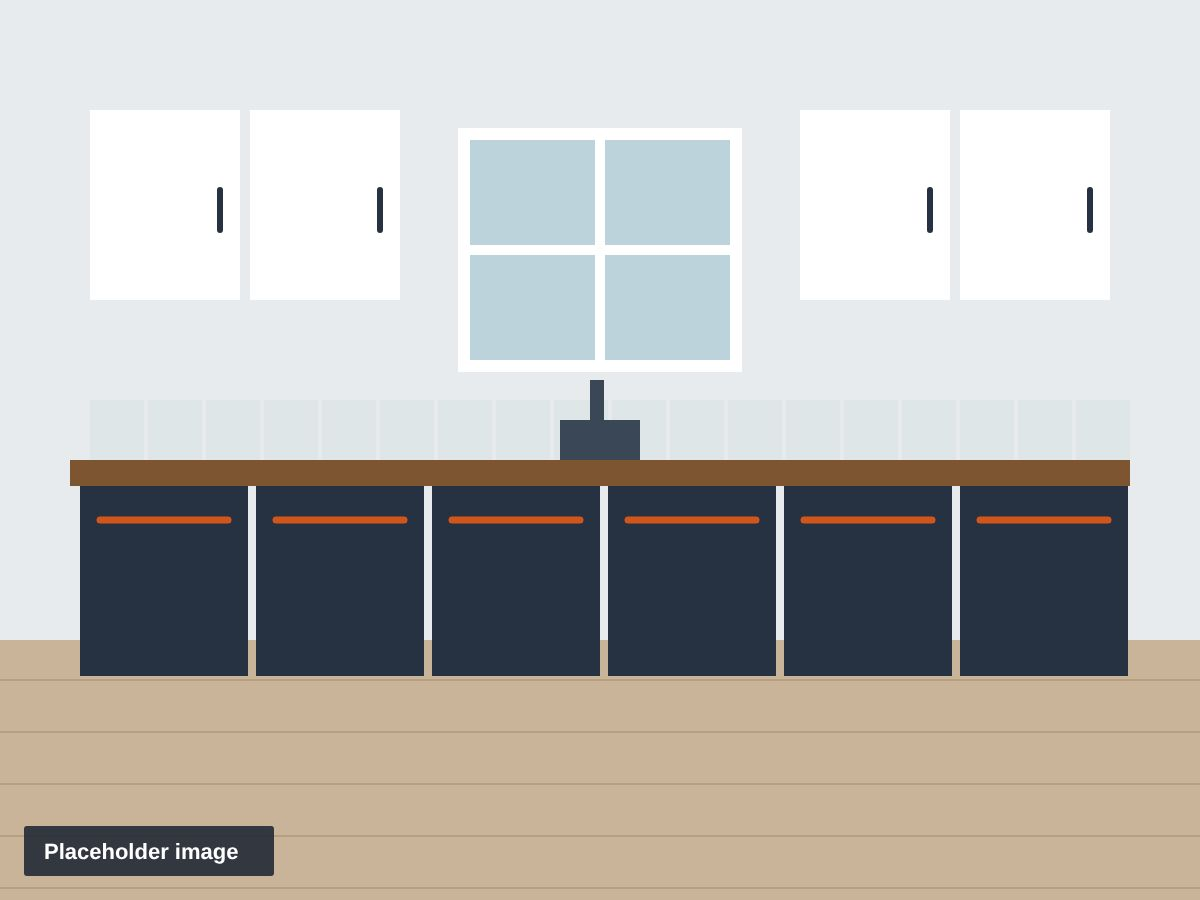
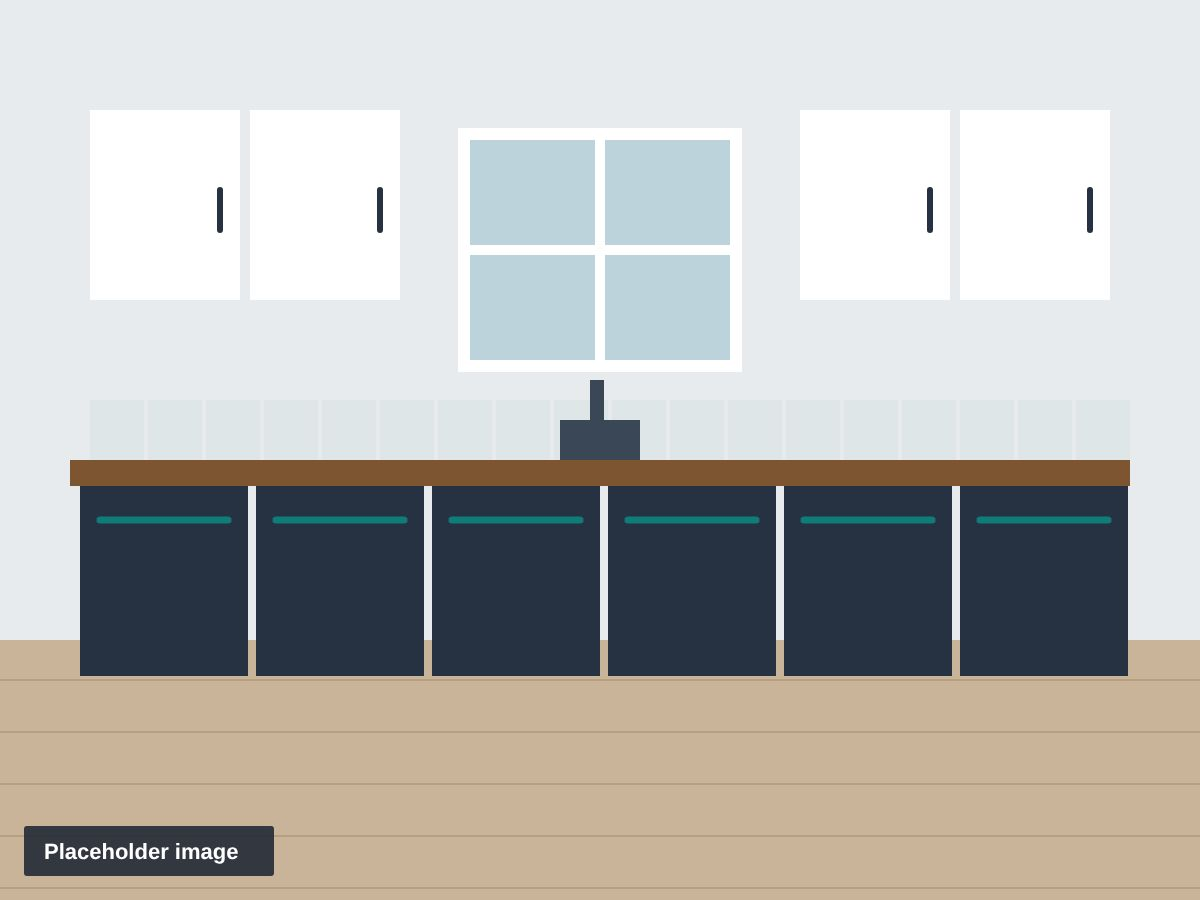
Change the accent colour from orange to teal
Buttons, the jobs strip, card edges, underlines and the logo mark now
use teal alongside the navy, with a light teal for highlights on dark
backgrounds. Placeholder images are redrawn to match.

Claude-Session: https://claude.ai/code/session_017Um8dBkX5FNQPcYcxfdK4v

diff --git a/css/style.css b/css/style.css
@@ -4,9 +4,9 @@
   --bg: #faf8f5;
   --card: #ffffff;
   --line: #e6e1d9;
-  --accent: #c2611f;
-  --accent-dark: #9e4d16;
-  --accent-soft: #fbeee4;
+  --accent: #0f7c7a;
+  --accent-dark: #0b5f5d;
+  --accent-soft: #e1f2f1;
   --dark: #23272d;
   --ok: #2f7d4a;
   --error: #b42318;
@@ -73,7 +73,7 @@ header {
 .hero h1 { font-size: clamp(2rem, 5vw, 3.2rem); line-height: 1.15; margin: 0 0 16px; max-width: 16ch; text-wrap: balance; }
 .hero p { font-size: 1.15rem; color: #d5d8dc; max-width: 52ch; margin: 0 0 32px; }
 .hero .actions { display: flex; gap: 12px; flex-wrap: wrap; }
-.hero .eyebrow { color: #f4a06e; font-size: .8rem; margin: 0 0 8px; }
+.hero .eyebrow { color: #7fd3cd; font-size: .8rem; margin: 0 0 8px; }
 .hero.small { padding: 64px 0 56px; }
 .hero.small h1 { max-width: 24ch; }
 .hero.small p { margin-bottom: 0; }
@@ -237,7 +237,7 @@ h2 { font-size: clamp(1.6rem, 3.5vw, 2.2rem); margin: 0 0 16px; line-height: 1.2
 .find-us { background: var(--dark); color: #fff; border-radius: 14px; padding: 32px 28px; }
 .find-us h2 { color: #fff; font-size: 1.3rem; display: flex; align-items: center; gap: 10px; margin: 0 0 14px; }
 .find-us h2 svg { color: var(--accent); width: 24px; height: 24px; }
-.find-us h3 { font-size: .8rem; text-transform: uppercase; letter-spacing: .1em; color: #f4a06e; margin: 24px 0 4px; }
+.find-us h3 { font-size: .8rem; text-transform: uppercase; letter-spacing: .1em; color: #7fd3cd; margin: 24px 0 4px; }
 .find-us address, .find-us p { font-style: normal; color: #c9cdd2; margin: 0; line-height: 1.7; }
 .find-us address strong { color: #fff; }
 form.quote { display: grid; gap: 18px 20px; grid-template-columns: 1fr 1fr; }
@@ -376,9 +376,9 @@ header { transition: box-shadow .2s; }
   --bg: #f5f6f7;
   --card: #ffffff;
   --line: #e1e5ea;
-  --accent: #d1561b;
-  --accent-dark: #a9440f;
-  --accent-soft: #fdebe0;
+  --accent: #0f7c7a;
+  --accent-dark: #0b5f5d;
+  --accent-soft: #e1f2f1;
   --dark: #1c2633;
   --dark-2: #263241;
   --display: "Zilla Slab", Rockwell, "Roboto Slab", Georgia, serif;
@@ -420,7 +420,7 @@ header { background: var(--dark); border-bottom: 4px solid var(--accent); backdr
 .hero { position: relative; overflow: hidden; isolation: isolate; background: var(--dark); }
 .hero h1 { letter-spacing: 0; }
 .hero.small { padding: 56px 0 60px; }
-.crumbs { display: flex; gap: 10px; align-items: center; color: #f4a06e; font-size: .9rem; font-weight: 700; letter-spacing: .1em; text-transform: uppercase; margin: 0 0 12px !important; }
+.crumbs { display: flex; gap: 10px; align-items: center; color: #7fd3cd; font-size: .9rem; font-weight: 700; letter-spacing: .1em; text-transform: uppercase; margin: 0 0 12px !important; }
 .crumbs a { color: #c3cbd5; text-decoration: none; }
 .crumbs a:hover { color: #fff; text-decoration: underline; }
 .crumbs span { color: #8793a1; }
@@ -429,9 +429,9 @@ header { background: var(--dark); border-bottom: 4px solid var(--accent); backdr
 .hero-bg { position: absolute; inset: 0; z-index: -1; }
 .hero-bg img { width: 100%; height: 100%; object-fit: cover; opacity: .3; }
 .hero-inner { display: grid; grid-template-columns: minmax(0, 1.6fr) minmax(0, 1fr); gap: 48px; align-items: center; padding-block: 88px 80px; }
-.hero-tag { margin: 0 0 14px !important; font-size: .9rem !important; font-weight: 700; letter-spacing: .14em; text-transform: uppercase; color: #f4a06e !important; }
+.hero-tag { margin: 0 0 14px !important; font-size: .9rem !important; font-weight: 700; letter-spacing: .14em; text-transform: uppercase; color: #7fd3cd !important; }
 .home-hero h1 { font-size: clamp(2.4rem, 5.6vw, 4rem); line-height: 1.08; max-width: 14ch; margin-bottom: 20px; }
-.home-hero h1 em { font-style: normal; color: #f4a06e; }
+.home-hero h1 em { font-style: normal; color: #7fd3cd; }
 .hero-trust { list-style: none; margin: 0; padding: 0; display: grid; gap: 0; border-left: 4px solid var(--accent); }
 .hero-trust li { padding: 14px 0 14px 22px; display: grid; gap: 2px; }
 .hero-trust li + li { border-top: 1px solid rgba(255,255,255,.12); }
@@ -468,7 +468,7 @@ footer .btn:hover { text-decoration: none; }
 @media (max-width: 760px) {
   .menu { background: var(--dark-2); border-bottom: 4px solid var(--accent); top: 76px; }
   .menu a { border-bottom-color: rgba(255,255,255,.1); }
-  .menu a[aria-current="page"] { color: #f4a06e; border-bottom-color: rgba(255,255,255,.1); }
+  .menu a[aria-current="page"] { color: #7fd3cd; border-bottom-color: rgba(255,255,255,.1); }
 }
 @media (max-width: 480px) {
   .logo .word { font-size: 1.1rem; }

diff --git a/contact.html b/contact.html
@@ -8,7 +8,7 @@
   <link rel="preconnect" href="https://fonts.googleapis.com">
   <link rel="preconnect" href="https://fonts.gstatic.com" crossorigin>
   <link rel="stylesheet" href="https://fonts.googleapis.com/css2?family=Zilla+Slab:wght@500;600;700&family=Source+Sans+3:wght@400;600;700&display=swap">
-  <link rel="stylesheet" href="css/style.css?v=c9911294">
+  <link rel="stylesheet" href="css/style.css?v=0b3144d4">
 </head>
 <body id="top">
 

diff --git a/gallery.html b/gallery.html
@@ -8,7 +8,7 @@
   <link rel="preconnect" href="https://fonts.googleapis.com">
   <link rel="preconnect" href="https://fonts.gstatic.com" crossorigin>
   <link rel="stylesheet" href="https://fonts.googleapis.com/css2?family=Zilla+Slab:wght@500;600;700&family=Source+Sans+3:wght@400;600;700&display=swap">
-  <link rel="stylesheet" href="css/style.css?v=c9911294">
+  <link rel="stylesheet" href="css/style.css?v=0b3144d4">
 </head>
 <body id="top">
 

diff --git a/index.html b/index.html
@@ -8,7 +8,7 @@
   <link rel="preconnect" href="https://fonts.googleapis.com">
   <link rel="preconnect" href="https://fonts.gstatic.com" crossorigin>
   <link rel="stylesheet" href="https://fonts.googleapis.com/css2?family=Zilla+Slab:wght@500;600;700&family=Source+Sans+3:wght@400;600;700&display=swap">
-  <link rel="stylesheet" href="css/style.css?v=c9911294">
+  <link rel="stylesheet" href="css/style.css?v=0b3144d4">
 </head>
 <body id="top">
 

diff --git a/reviews.html b/reviews.html
@@ -8,7 +8,7 @@
   <link rel="preconnect" href="https://fonts.googleapis.com">
   <link rel="preconnect" href="https://fonts.gstatic.com" crossorigin>
   <link rel="stylesheet" href="https://fonts.googleapis.com/css2?family=Zilla+Slab:wght@500;600;700&family=Source+Sans+3:wght@400;600;700&display=swap">
-  <link rel="stylesheet" href="css/style.css?v=c9911294">
+  <link rel="stylesheet" href="css/style.css?v=0b3144d4">
 </head>
 <body id="top">
 

diff --git a/services.html b/services.html
@@ -8,7 +8,7 @@
   <link rel="preconnect" href="https://fonts.googleapis.com">
   <link rel="preconnect" href="https://fonts.gstatic.com" crossorigin>
   <link rel="stylesheet" href="https://fonts.googleapis.com/css2?family=Zilla+Slab:wght@500;600;700&family=Source+Sans+3:wght@400;600;700&display=swap">
-  <link rel="stylesheet" href="css/style.css?v=c9911294">
+  <link rel="stylesheet" href="css/style.css?v=0b3144d4">
 </head>
 <body id="top">
 
